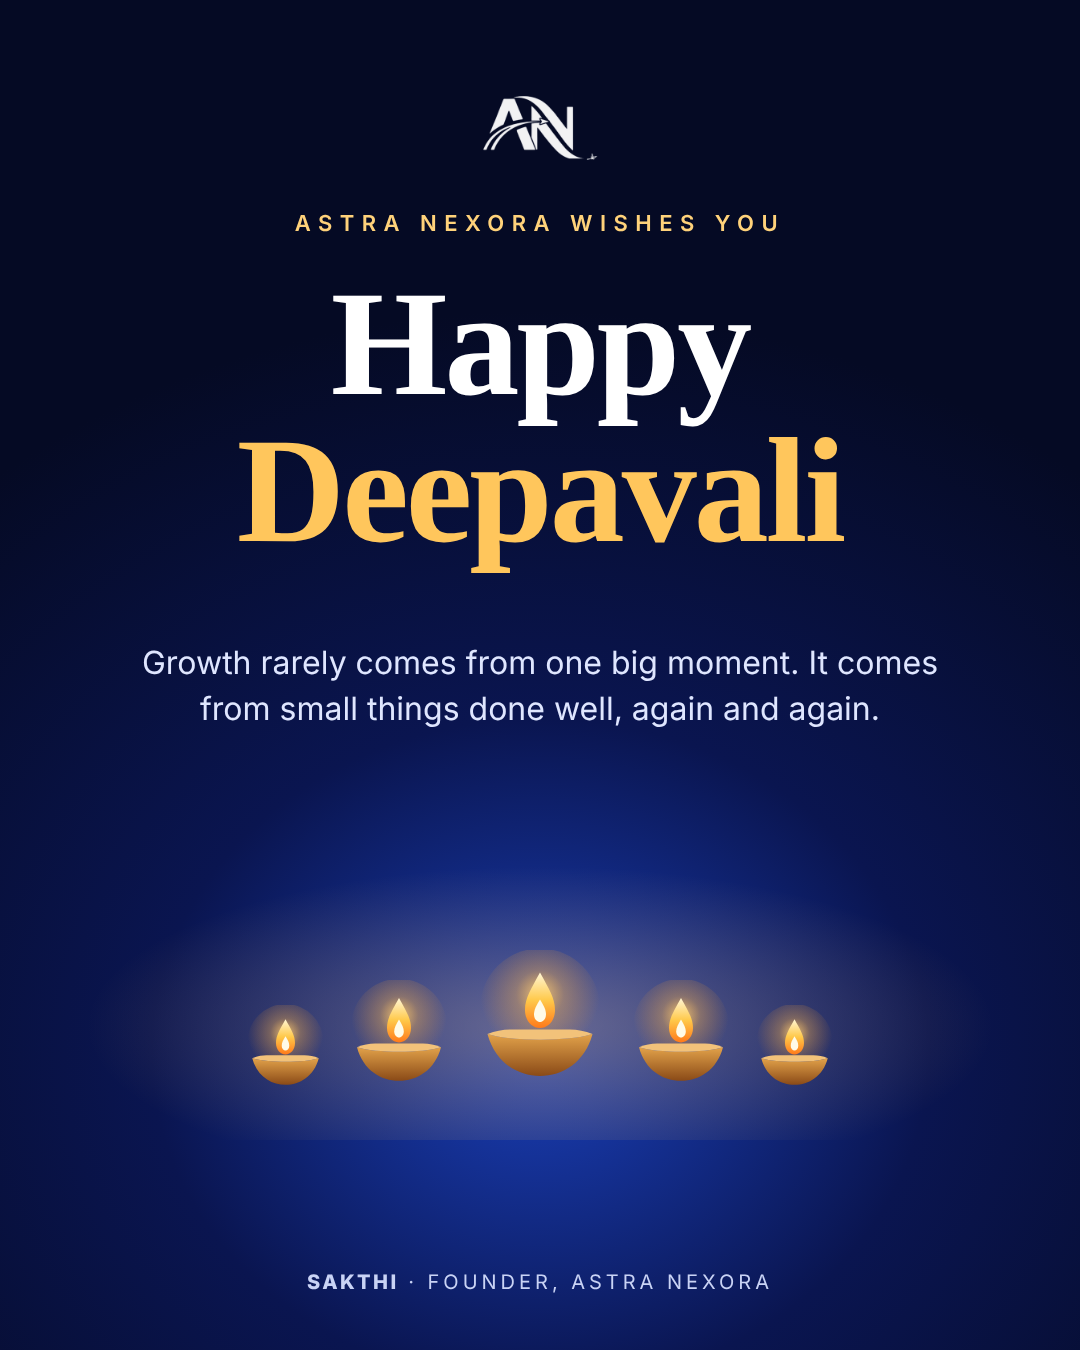
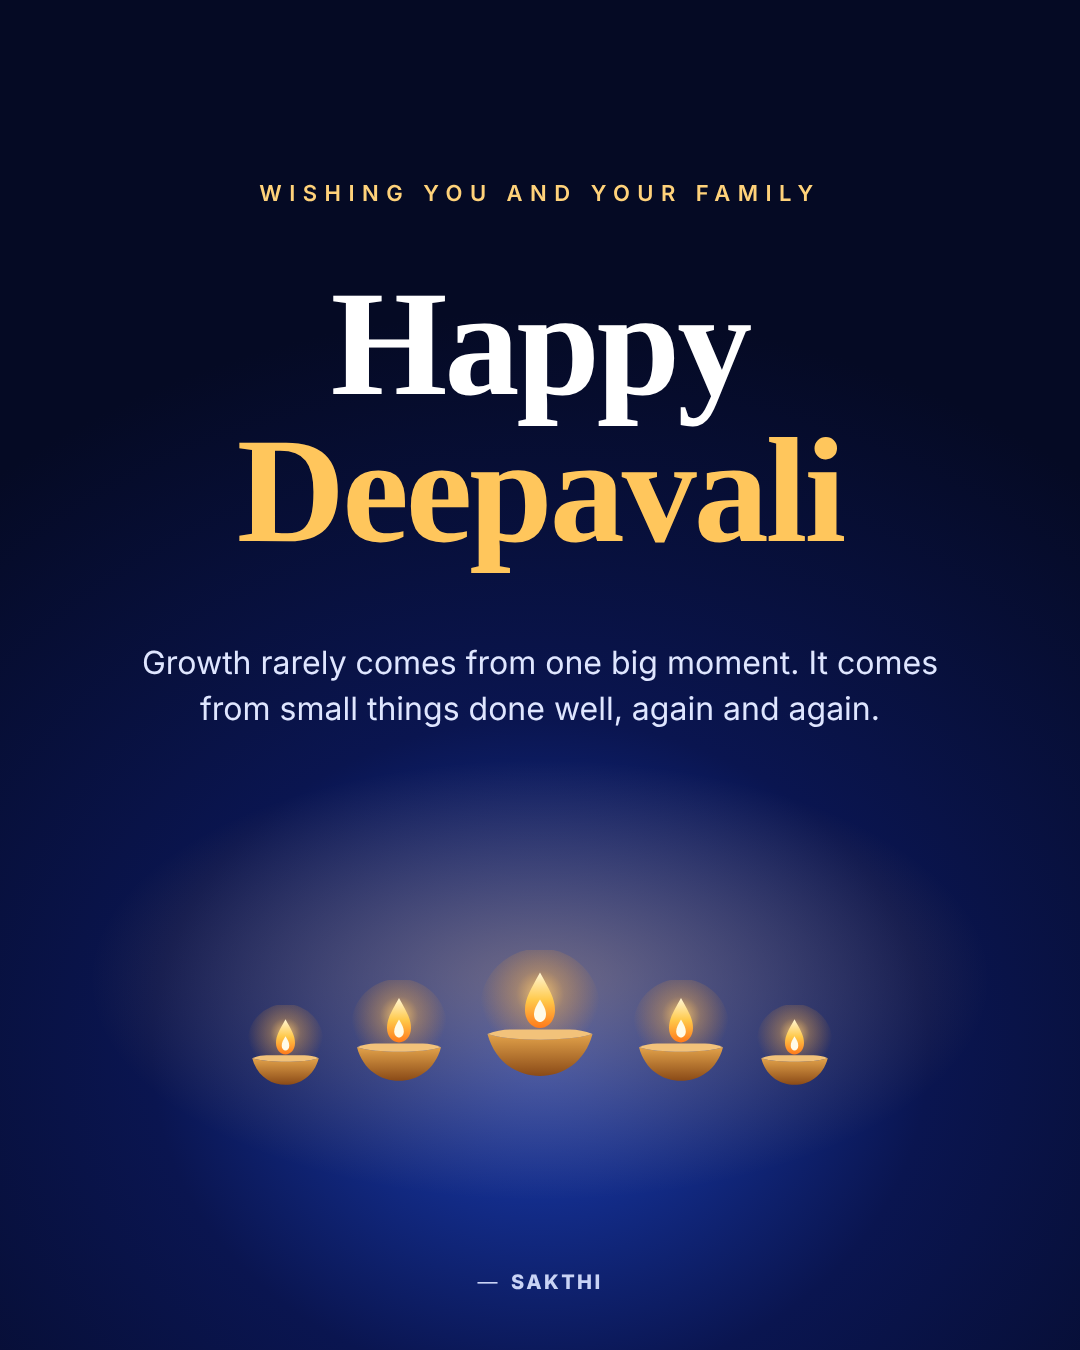
Social agent: 7 Nov free-tools post replaces the poll; personal Deepavali post
Claude-Session: https://claude.ai/code/session_01NT32g7Mb5uynZuM8ztYe1e

diff --git a/social-agent/linkedin/posters/2026-11-08.html b/social-agent/linkedin/posters/2026-11-08.html
@@ -1,8 +1,8 @@
 <!doctype html><html><head><meta charset="utf-8"><link rel="stylesheet" href="base.css"><style>
 body { background: radial-gradient(80% 55% at 50% 78%, #1a3fb8 0%, #0a1550 45%, #050a24 100%); color: #fff; text-align: center; }
-.glow { position: absolute; left: 0; right: 0; bottom: 210px; height: 380px; background: radial-gradient(60% 60% at 50% 70%, rgba(255,190,90,.35), transparent 70%); }
+.glow { position: absolute; left: 90px; right: 90px; bottom: 150px; height: 440px; background: radial-gradient(closest-side, rgba(255,190,90,.38), rgba(255,190,90,0)); }
 .logo { position: absolute; top: 96px; left: 50%; transform: translateX(-50%); height: 64px; opacity: .95; }
-.k { position: absolute; top: 210px; left: 0; right: 0; font-size: 22px; letter-spacing: .34em; text-transform: uppercase; color: #ffd27a; font-weight: 600; }
+.k { position: absolute; top: 180px; left: 0; right: 0; font-size: 22px; letter-spacing: .34em; text-transform: uppercase; color: #ffd27a; font-weight: 600; }
 h1 { position: absolute; top: 270px; left: 60px; right: 60px; font-family: Serif; font-weight: 800; font-size: 150px; line-height: .98; letter-spacing: -.02em; }
 h1 em { font-style: normal; color: #ffc65c; display: block; }
 p { position: absolute; top: 640px; left: 140px; right: 140px; font-size: 32px; line-height: 1.45; color: #dfe6ff; }
@@ -12,11 +12,10 @@ p { position: absolute; top: 640px; left: 140px; right: 140px; font-size: 32px; 
 .row img:nth-child(1), .row img:nth-child(5) { width: 95px; }
 .sign { color: #c9d3f5; justify-content: center; gap: 24px; }
 </style></head><body>
-<img class="logo" src="an-mark-white.png" alt="">
-<div class="k">Astra Nexora wishes you</div>
+<div class="k">Wishing you and your family</div>
 <h1>Happy <em>Deepavali</em></h1>
 <p>Growth rarely comes from one big moment. It comes from small things done well, again and again.</p>
 <div class="glow"></div>
 <div class="row"><img src="diya.svg"><img src="diya.svg"><img src="diya.svg"><img src="diya.svg"><img src="diya.svg"></div>
-<div class="sign"><span><b>Sakthi</b> · Founder, Astra Nexora</span></div>
+<div class="sign"><span>— <b>Sakthi</b></span></div>
 </body></html>

diff --git a/social-agent/linkedin/week-2026-11-03.md b/social-agent/linkedin/week-2026-11-03.md
@@ -20,8 +20,8 @@ Profile: Saktheeswaran S. Post at 10:00 AM IST, except the poll.
 | Wed 4 | Carousel, 6 slides | Clean white/blue PDF slides | Claude |
 | Thu 5 | Own-data story | White editorial bar chart of real impressions | Claude (done) |
 | Fri 6 | 🪔 Festive tips | Festive checklist with a diya | Claude |
-| Sat 7 | LinkedIn poll | No poster, native poll | Sakthi posts by hand |
-| Sun 8 | 🪔 Deepavali greeting | Blue and gold greeting with lamps | Claude |
+| Sat 7 | 5 free tools | Poster by Sakthi | Sakthi |
+| Sun 8 | 🪔 Deepavali, personal | Poster by Sakthi | Sakthi |
 | Mon 9 | Myth vs fact | Split red / green typographic card | Claude |
 
 ---
@@ -136,32 +136,77 @@ Which one will you do this week?
 
 (The AI assistant post moves to Fri 13 Nov.)
 
-## Sat 7 Nov: poll (post by hand, LinkedIn poll)
+## Sat 7 Nov: 5 free tools every small business should be using
+
+Poster text (Sakthi makes the poster):
+- FREE TOOLS · ₹0
+- 5 free tools every small business **should be using**
+- 1. Google Search Console: see what people search to find you
+- 2. Google Analytics 4: know where visitors come from
+- 3. Microsoft Clarity: watch how people actually use your website
+- 4. WhatsApp Business: quick replies, labels, catalogue
+- 5. Canva: make your own posts and offers in minutes
+- Save this for later.
 
 ```
-Business owners in Chennai: where do most of your new customers find you?
+You don't need expensive software to run your marketing.
 
-Poll options:
-• Google search / Maps
-• Instagram / Facebook
-• WhatsApp & referrals
-• Walk-ins / offline
+These 5 tools are free, and most small businesses either don't use them or don't know they exist:
+
+1. Google Search Console
+See exactly what people type on Google before they land on your website.
+
+2. Google Analytics 4
+Find out where your visitors come from: Google, Instagram, WhatsApp or ads.
+
+3. Microsoft Clarity
+Watch recordings of how people scroll and click on your site. You'll quickly see where they get stuck.
+
+4. WhatsApp Business
+Quick replies, labels and a product catalogue, all free inside the app.
+
+5. Canva
+Make your own posts, offers and posters in minutes, no designer needed.
+
+Start with one. Most business owners learn more from Search Console in 10 minutes than from a month of guessing.
+
+Which of these are you already using?
+
+#SmallBusiness #FreeTools #DigitalMarketing
 ```
 
-## Sun 8 Nov: Deepavali 🪔
+## Sun 8 Nov: Happy Deepavali 🪔 (personal profile)
 
-Poster: blue and gold greeting with lamps (to make).
+Poster text (Sakthi makes the poster):
+- Wishing you and your family
+- Happy **Deepavali**
+- Growth rarely comes from one big moment. It comes from small things done well, again and again.
+- — Sakthi
 
 ```
-Happy Deepavali from Astra Nexora 🪔
+Happy Deepavali 🪔
 
 This year taught me that growth rarely comes from one big moment. It comes from small things done well, again and again.
 
-To every business owner who trusted us with their work this year: thank you.
+To everyone who supported me, worked with me, or simply read my posts this year: thank you. It means more than you know.
 
-Wishing you, your family and your customers a safe and bright Deepavali.
+Wishing you and your family a safe, bright and happy Deepavali.
 
 — Sakthi
+
+#Deepavali #HappyDeepavali
+```
+
+### Astra Nexora page (posted by hand)
+
+Poster text: Astra Nexora wishes you · Happy **Deepavali** · May this festival of lights bring new opportunities and bright growth to your business. · Astra Nexora · Next Era in Digital Marketing
+
+```
+Happy Deepavali from all of us at Astra Nexora 🪔
+
+May this festival of lights bring new opportunities, bright ideas and steady growth to every business we work with, and every one we're yet to meet.
+
+Thank you for trusting us this year.
 
 #Deepavali #HappyDeepavali #AstraNexora
 ```

diff --git a/social-agent/linkedin-plan-2026-11.md b/social-agent/linkedin-plan-2026-11.md
@@ -13,6 +13,7 @@ Full captions for each week go in `linkedin/week-<date>.md`; week 1 is `linkedin
 - Hook in the first 2 lines. One idea per post. No invented numbers.
 - Talk to buyers (clinic and business owners), not other marketers.
 - No links in the body (first comment), 3 hashtags, no "comment KEYWORD" bait.
+- **No polls for now** (not enough active followers yet). Replace each poll with a regular post.
 - After posting: reply to every comment in the first hour, then 15 minutes commenting on business owners' posts.
 
 **Made by:** "Claude" means Claude designs the poster from HTML. "Sakthi" means it needs something from Sakthi first.
@@ -36,7 +37,7 @@ Full captions for each week go in `linkedin/week-<date>.md`; week 1 is `linkedin
 | 2 | Wed 4 Nov | Carousel | Google Business Profile: 5 fixes | "For most local businesses, the first page a customer sees isn't the website." | 6 white/blue slides | Claude |
 | 3 | Thu 5 Nov | Own data | What 50+ of my posts taught me | "The ones I worked hardest on got the least reach." | Editorial bar chart | Claude ✅ |
 | 4 | Fri 6 Nov | 🪔 Festive tips | 5 quick Deepavali marketing ideas for local businesses | "Most shops will post a 'Happy Deepavali' poster and stop there." | Festive checklist with diya | Claude |
-| 5 | Sat 7 Nov | Poll | Where do your new customers find you? | "Business owners: where do most of your new customers find you?" | Native poll | Sakthi |
+| 5 | Sat 7 Nov | Tools | 5 free tools every small business should be using | "You don't need expensive software to run your marketing." | Poster by Sakthi | Sakthi |
 | 6 | Sun 8 Nov | 🪔 **Deepavali** | Greeting + thank-you | "Happy Deepavali from Astra Nexora." | Blue/gold greeting with lamps | Claude |
 | 7 | Mon 9 Nov | Myth vs fact | "A new website will bring more customers" | "'We need a new website.' It's often the wrong fix." | Red / green split card | Claude |
 | 8 | Tue 10 Nov | Comparison | Wix vs WordPress vs custom code for a small business | "Wix, WordPress or custom? The right answer depends on one question." | 3-column comparison table | Claude |
